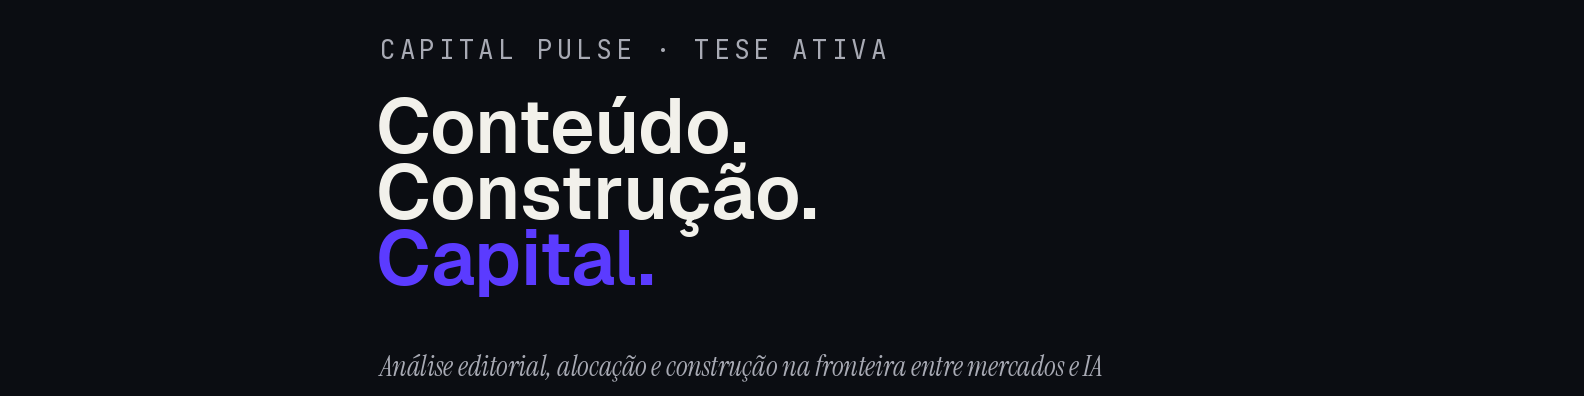
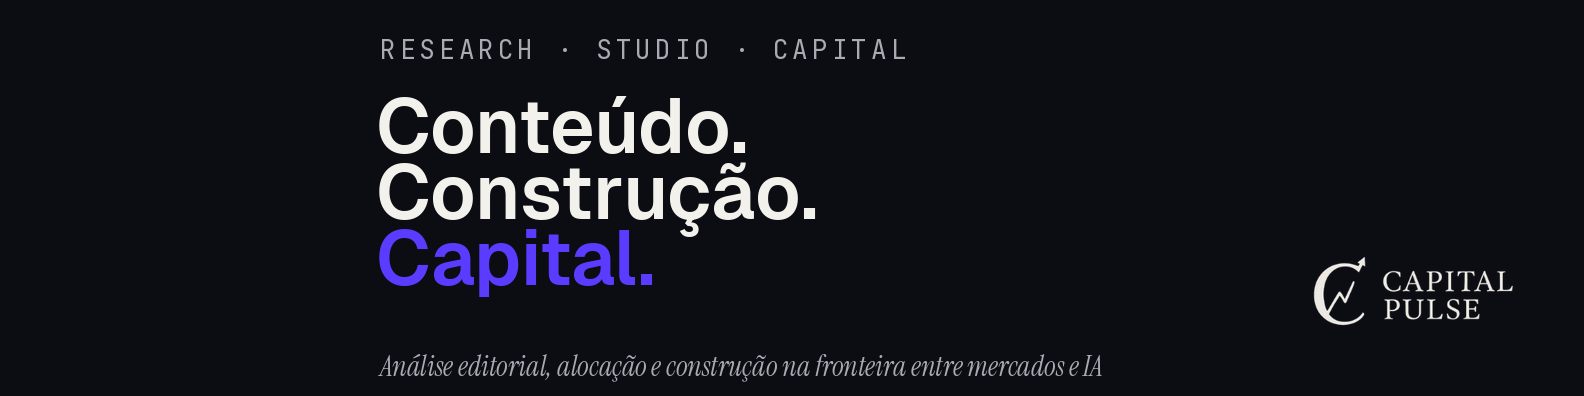
auto-sync: 2026-05-04 22:46

Changed region(s): [[0.8043, 0.6667, 0.959, 0.8182], [0.2165, 0.0909, 0.5568, 0.1515]]

diff --git a/user-skills/capitalpulse-linkedin-header/render.py b/user-skills/capitalpulse-linkedin-header/render.py
@@ -22,6 +22,7 @@ from pathlib import Path
 # === Paths ===
 BASE = Path(__file__).parent
 FONTS = BASE / "fonts"
+LOGO = BASE / "logo"
 OUT = BASE
 
 # === Canvas ===
@@ -104,6 +105,53 @@ def draw_masthead_with_accent(draw, words_with_colors, position, font, gap_extra
     return x
 
 
+def tint_logo(logo_img, target_hex):
+    """
+    Tonaliza a logomarca para uma cor alvo, preservando alpha.
+    Usado para gerar a versão violet (paper) a partir da cream (dark).
+    """
+    # Hex -> RGB
+    target = tuple(int(target_hex[i:i+2], 16) for i in (1, 3, 5))
+    rgba = logo_img.convert("RGBA")
+    pixels = rgba.load()
+    w, h = rgba.size
+    for y in range(h):
+        for x in range(w):
+            r, g, b, a = pixels[x, y]
+            if a > 0:
+                # Aplica a cor alvo preservando alpha original
+                pixels[x, y] = (target[0], target[1], target[2], a)
+    return rgba
+
+
+def composite_logo(canvas, theme, logo_height=82, margin_right=64, margin_bottom=64):
+    """
+    Coloca a logomarca no canto inferior direito.
+    """
+    # Carrega logo cream (versão para fundo dark)
+    logo_path = LOGO / "wordmark-cream.png"
+    logo = Image.open(logo_path).convert("RGBA")
+
+    # Tonaliza se for paper (precisa virar violet pra contraste em fundo claro)
+    if theme["bg"] == PAPER["bg"]:
+        logo = tint_logo(logo, theme["signal"])
+
+    # Redimensiona mantendo aspect ratio
+    aspect = logo.width / logo.height
+    new_h = logo_height
+    new_w = int(new_h * aspect)
+    logo = logo.resize((new_w, new_h), Image.LANCZOS)
+
+    # Posiciona no canto inferior direito
+    x = canvas.width - new_w - margin_right
+    y = canvas.height - new_h - margin_bottom
+
+    # Cola com alpha compositing
+    canvas_rgba = canvas.convert("RGBA")
+    canvas_rgba.paste(logo, (x, y), logo)
+    return canvas_rgba.convert("RGB")
+
+
 def render_header(theme, eyebrow_text, manifesto_lines, tagline_text, output_path):
     """
     Renderiza um banner.
@@ -175,6 +223,9 @@ def render_header(theme, eyebrow_text, manifesto_lines, tagline_text, output_pat
             fill=theme["secondary"],
         )
 
+    # === Logomarca no canto inferior direito ===
+    img = composite_logo(img, theme, logo_height=82, margin_right=64, margin_bottom=64)
+
     img.save(output_path, "PNG", optimize=True)
     return output_path
 
@@ -183,7 +234,7 @@ def main():
     # === DARK PT — versão MINIMAL (sem tagline, masthead grande) ===
     out = render_header(
         theme=DARK,
-        eyebrow_text="CAPITAL PULSE · TESE ATIVA",
+        eyebrow_text="RESEARCH · STUDIO · CAPITAL",
         manifesto_lines=[
             [("Conteúdo.", "primary")],
             [("Construção.", "primary")],
@@ -197,7 +248,7 @@ def main():
     # === DARK PT — versão FULL (com tagline) ===
     out = render_header(
         theme=DARK,
-        eyebrow_text="CAPITAL PULSE · TESE ATIVA",
+        eyebrow_text="RESEARCH · STUDIO · CAPITAL",
         manifesto_lines=[
             [("Conteúdo.", "primary")],
             [("Construção.", "primary")],
@@ -211,7 +262,7 @@ def main():
     # === PAPER PT — versão MINIMAL ===
     out = render_header(
         theme=PAPER,
-        eyebrow_text="CAPITAL PULSE · TESE ATIVA",
+        eyebrow_text="RESEARCH · STUDIO · CAPITAL",
         manifesto_lines=[
             [("Conteúdo.", "primary")],
             [("Construção.", "primary")],
@@ -225,7 +276,7 @@ def main():
     # === PAPER PT — versão FULL ===
     out = render_header(
         theme=PAPER,
-        eyebrow_text="CAPITAL PULSE · TESE ATIVA",
+        eyebrow_text="RESEARCH · STUDIO · CAPITAL",
         manifesto_lines=[
             [("Conteúdo.", "primary")],
             [("Construção.", "primary")],
@@ -239,7 +290,7 @@ def main():
     # === DARK EN — versão MINIMAL ===
     out = render_header(
         theme=DARK,
-        eyebrow_text="CAPITAL PULSE · AI-NATIVE RESEARCH",
+        eyebrow_text="RESEARCH · STUDIO · CAPITAL",
         manifesto_lines=[
             [("Content.", "primary")],
             [("Construction.", "primary")],
@@ -253,7 +304,7 @@ def main():
     # === DARK EN — versão FULL ===
     out = render_header(
         theme=DARK,
-        eyebrow_text="CAPITAL PULSE · AI-NATIVE RESEARCH",
+        eyebrow_text="RESEARCH · STUDIO · CAPITAL",
         manifesto_lines=[
             [("Content.", "primary")],
             [("Construction.", "primary")],
